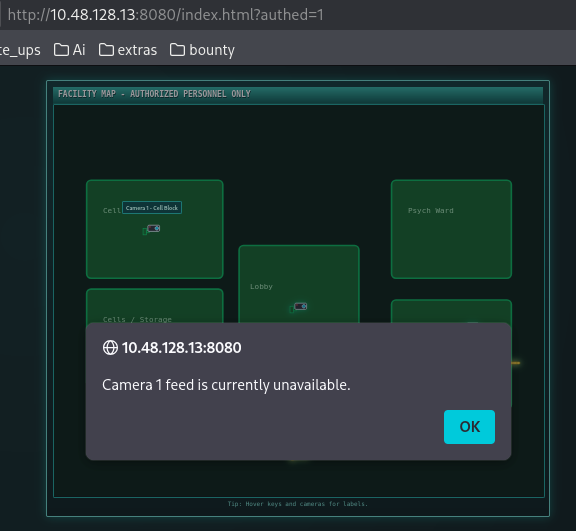
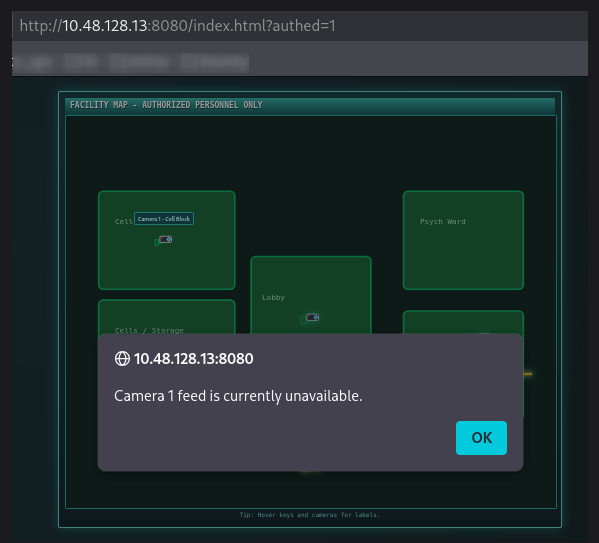
The Great Disappearing Act

Changed region(s): [[0.0, 0.0, 1.0, 0.9944]]

diff --git a/_posts/hard/2026-09-25-the_great_disappearing_act.md b/_posts/hard/2026-09-25-the_great_disappearing_act.md
@@ -129,14 +129,7 @@ I also inspected the source code.
 
 At this point, there were already multiple possible attack directions:
 
-```text
-XSS
-File Upload
-Authentication attacks
-Parameter manipulation
-Hidden endpoints
-Credential attacks
-```
+`XSS`, `File Upload`, `Authentication attacks`, `Parameter manipulation`, `Hidden endpoints`, `Credential attacks`
 
 Instead of immediately attacking every form randomly, I continued enumerating the application.
 
@@ -154,11 +147,7 @@ ffuf -u http://<target-ip>/FUZZ \
 
 ![ffuf on IP only](/assets/images/writeups/the_great_disappearing_act/3.png)
 
-The main interesting discovery was:
-
-```text
-/cgi-bin
-```
+The main interesting discovery was `/cgi-bin`
 
 I then performed another fuzzing scan against port `8000`.
 
@@ -186,17 +175,17 @@ This turned out to be important.
 
 The posts appeared to contain clues related to credentials.
 
-One account caught my attention:
+One account caught my attention ie `guard.hopkins@hopsecasylum.com`
 
-```text
-guard.hopkins@hopsecasylum.com
-```
+![email](/assets/images/writeups/the_great_disappearing_act/email.png)
 
 A post appeared to reveal information about the user's password through social engineering.
 
 The account had subsequently changed its password.
 
 That meant the original password was probably not directly usable.
+
+![password change](/assets/images/writeups/the_great_disappearing_act/pw_change.png)
 
 However, the posts gave me several words and pieces of information that could potentially be used to construct the new password.
 
@@ -206,11 +195,7 @@ However, the posts gave me several words and pieces of information that could po
 
 # 7. Building a Password Wordlist
 
-I collected the interesting words from the Fakebook posts and placed them into:
-
-```text
-list_a.txt
-```
+I collected the interesting words from the Fakebook posts and placed them into `list_a.txt`
 
 I then duplicated the list:
 
@@ -228,11 +213,7 @@ hashcat --stdout -a 1 list_a list_b > passwords.txt
 
 ### What is happening here?
 
-The important part is:
-
-```text
--a 1
-```
+The important part is `-a 1`
 
 Hashcat attack mode `1` is the **combinator attack**.
 
@@ -262,11 +243,7 @@ word3word2
 word3word3
 ```
 
-The generated combinations were saved to:
-
-```text
-passwords.txt
-```
+The generated combinations were saved to `passwords.txt`
 
 ![passwords generated using hashcat](/assets/images/writeups/the_great_disappearing_act/3_3.png)
 
@@ -278,13 +255,9 @@ This was a useful example of how OSINT can be converted into a targeted password
 
 Now I had:
 
-```text
-Username:
-guard.hopkins@hopsecasylum.com
+`Username: guard.hopkins@hopsecasylum.com`
 
-Password candidates:
-passwords.txt
-```
+`Password candidates: passwords.txt`
 
 I used Hydra against the login endpoint:
 
@@ -392,11 +365,7 @@ I reused the credentials against the video portal on port `13400`.
 
 The portal contained four videos.
 
-Three of the videos displayed a message indicating that I had been:
-
-```text
-JESTERED
-```
+Three of the videos displayed a message indicating that I had been `JESTERED`
 
 ![video portal jestered](/assets/images/writeups/the_great_disappearing_act/4_1.png)
 
@@ -416,11 +385,7 @@ I opened Burp Suite and intercepted the request generated when selecting the cam
 
 ![cam lobby](/assets/images/writeups/the_great_disappearing_act/4_3.png)
 
-After forwarding the request, another request was generated:
-
-```text
-/v1/streams/request
-```
+After forwarding the request, another request was generated `/v1/streams/request`
 
 The request used POST and contained information identifying the camera and its tier.
 
@@ -428,23 +393,13 @@ The request used POST and contained information identifying the camera and its t
 
 This was an important discovery.
 
-Instead of the browser simply requesting:
-
-```text
-"give me camera X"
-```
-
-the application was sending parameters that determined the camera and access tier.
+Instead of the browser simply requesting `give me camera X` and the application was sending parameters that determined the camera and access tier.
 
 ---
 
 # 13. Accessing the Admin Camera
 
-While examining the camera interface, I noticed a camera identifier:
-
-```text
-cam-admin
-```
+While examining the camera interface, I noticed a camera identifier `cam-admin`
 
 I modified the request to request the admin camera.
 
@@ -490,11 +445,7 @@ This produced the first half of the second flag.
 
 At this point, I had:
 
-```text
-FLAG 1
-    +
-Second flag — first half
-```
+`FLAG 1   +    Second flag — first half`
 
 But the second half still needed to be recovered.
 
@@ -508,21 +459,15 @@ The returned `manifest.m3u8` file contained several interesting references.
 
 Most importantly, it exposed:
 
-```text
-/v1/ingest/diagnostics
-```
+`/v1/ingest/diagnostics`
 
 and:
 
-```text
-/v1/ingest/jobs
-```
+`/v1/ingest/jobs`
 
 It also contained an example RTSP URL:
 
-```text
-rtsp://vendor-cam.test/cam-admin
-```
+`rtsp://vendor-cam.test/cam-admin`
 
 The relevant entries were:
 
@@ -544,11 +489,7 @@ The video manifest was exposing internal API functionality.
 
 # 17. Investigating `/v1/ingest/diagnostics`
 
-I checked:
-
-```text
-/v1/ingest/diagnostics
-```
+I checked `/v1/ingest/diagnostics`
 
 A normal GET request was not accepted.
 
@@ -564,37 +505,23 @@ When I sent the request without the required data, the server complained about a
 
 ![invalid rtsp_url](/assets/images/writeups/the_great_disappearing_act/5_2.png)
 
-This error message gave me exactly what I needed:
-
-```text
-rtsp_url
-```
+This error message gave me exactly what I needed `rtsp_url`
 
 ---
 
 # 18. Supplying the RTSP URL
 
-The manifest had already exposed an example RTSP URL:
-
-```text
-rtsp://vendor-cam.test/cam-admin
-```
+The manifest had already exposed an example RTSP URL `rtsp://vendor-cam.test/cam-admin`
 
 I supplied this value to the diagnostics endpoint.
 
 The server responded with a `job_id`.
 
-Example:
-
-```text
-fd086e09-1fc3-4b0c-8acc-6d034208adfe
-```
+Example: `fd086e09-1fc3-4b0c-8acc-6d034208adfe`
 
 The response referenced another endpoint:
 
-```http
-GET /v1/ingest/jobs/fd086e09-1fc3-4b0c-8acc-6d034208adfe
-```
+`GET /v1/ingest/jobs/fd086e09-1fc3-4b0c-8acc-6d034208adfe`
 
 ![job_id](/assets/images/writeups/the_great_disappearing_act/5_3.png)
 
@@ -614,19 +541,11 @@ job_id
 
 # 19. Obtaining the Token
 
-I requested the job endpoint:
-
-```text
-/v1/ingest/jobs/<job_id>
-```
+I requested the job endpoint `/v1/ingest/jobs/<job_id>`
 
 The response contained a token.
 
-It also referenced port:
-
-```text
-13404
-```
+It also referenced port `13404`
 
 ![token](/assets/images/writeups/the_great_disappearing_act/5_4.png)
 
@@ -644,11 +563,7 @@ nc <target-ip> 13404
 
 I supplied the token obtained from the API.
 
-This resulted in shell access as:
-
-```text
-svc_vidops
-```
+This resulted in shell access as `svc_vidops`
 
 ![nc and second half of the flag](/assets/images/writeups/the_great_disappearing_act/5_5.png)
 
@@ -694,11 +609,7 @@ find / -type f -perm /4000 2>/dev/null
 
 ![SUID](/assets/images/writeups/the_great_disappearing_act/6_1.png)
 
-One interesting binary was:
-
-```text
-/usr/local/bin/diag_shell
-```
+One interesting binary was `/usr/local/bin/diag_shell`
 
 It was owned by the `dockermgr` user.
 
@@ -714,11 +625,7 @@ ls -la /usr/local/bin/diag_shell
 
 ![diag_shell](/assets/images/writeups/the_great_disappearing_act/6_2.png)
 
-Executing the binary spawned a shell with the UID of:
-
-```text
-dockermgr
-```
+Executing the binary spawned a shell with the UID of `dockermgr`
 
 However, simply obtaining the UID was not enough.
 
@@ -726,11 +633,7 @@ I was not actually a member of the `dockermgr` group, so I could not immediately
 
 This is where filesystem permissions became important.
 
-I discovered that I could write to the home directory belonging to:
-
-```text
-dockermgr
-```
+I discovered that I could write to the home directory belonging to `dockermgr`
 
 That gave me another way to obtain a proper session as that user.
 
@@ -752,11 +655,7 @@ cat id_ed25519.pub
 
 ![ssh-keygen](/assets/images/writeups/the_great_disappearing_act/6_3.png)
 
-I placed my public key inside:
-
-```text
-/home/dockermgr/.ssh/authorized_keys
-```
+I placed my public key inside `/home/dockermgr/.ssh/authorized_keys`
 
 For example:
 
@@ -775,11 +674,7 @@ ssh -i id_ed25519 dockermgr@<target-ip>
 
 ![ssh-login](/assets/images/writeups/the_great_disappearing_act/6_5.png)
 
-This provided a stable session as:
-
-```text
-dockermgr
-```
+This provided a stable session as `dockermgr`
 
 ---
 
@@ -795,17 +690,7 @@ One container immediately stood out.
 
 It was responsible for the SCADA terminal controlling the exit gate.
 
-The container was named:
-
-```text
-asylum_gate_control
-```
-
-Its container ID was:
-
-```text
-a20f81c6cc55
-```
+The container was named `asylum_gate_control`. Its container ID was `a20f81c6cc55`
 
 ---
 
@@ -825,11 +710,7 @@ ls
 
 ![docker ps, exec](/assets/images/writeups/the_great_disappearing_act/6_6.png)
 
-One particularly interesting file was:
-
-```text
-scada_terminal.py
-```
+One particularly interesting file was `scada_terminal.py`
 
 I examined it:
 
@@ -891,11 +772,7 @@ The application then provided another flag/access code.
 
 ![access flag](/assets/images/writeups/the_great_disappearing_act/6_11.png)
 
-The page also provided an invitation to:
-
-```text
-Hoppers Origins Side Side Quest
-```
+The page also provided an invitation to `Hoppers Origins Side Side Quest`
 
 ![invite page](/assets/images/writeups/the_great_disappearing_act/6_12.png)
 
